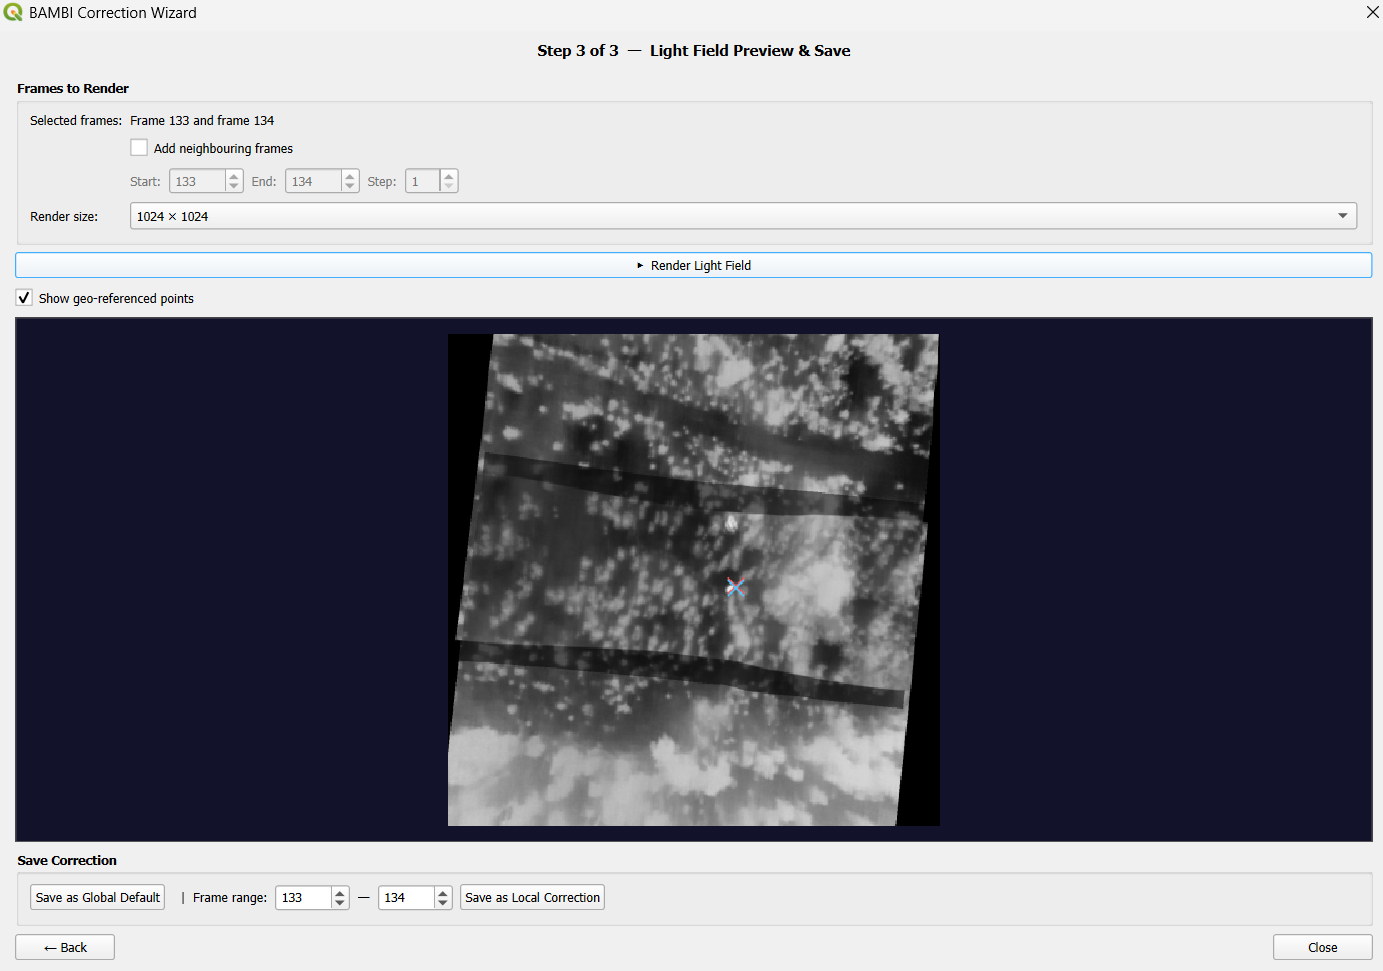
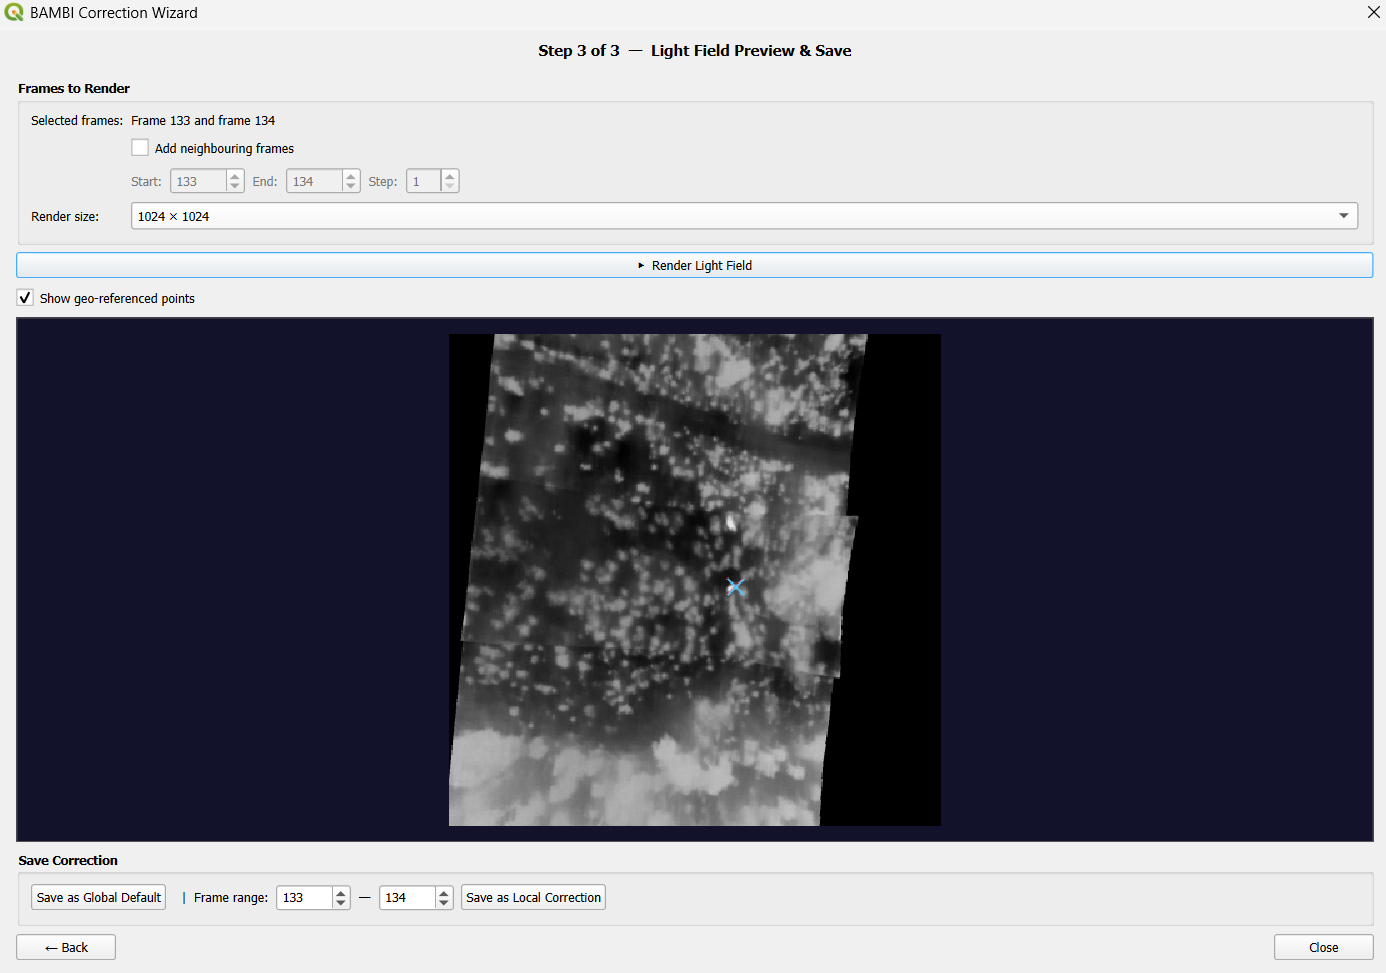
Adding mask to ALFS rendering in correction wizard

diff --git a/bambi_wildlife_detection/bambi_correction_wizard.py b/bambi_wildlife_detection/bambi_correction_wizard.py
@@ -569,7 +569,7 @@ class _LightFieldRenderWorker(QThread):
         )
         from alfspy.render.data import BaseSettings, CameraPositioningMode
         from alfspy.core.rendering.renderer import Renderer
-        from alfspy.core.rendering import CtxShot, Resolution
+        from alfspy.core.rendering import CtxShot, Resolution, TextureData
         from alfspy.core.geo.transform import Transform
         from alfspy.core.util.pyrrs import quaternion_from_eulers
         from alfspy.core.util.geo import get_aabb
@@ -598,6 +598,15 @@ class _LightFieldRenderWorker(QThread):
         self.progress.emit(25)
 
         ctx = make_mgl_context()
+
+        # Load undistortion mask if available
+        mask = None
+        mask_path = p.get('mask_path')
+        if mask_path and os.path.isfile(mask_path):
+            mask_img = cv2.imread(mask_path, cv2.IMREAD_UNCHANGED)
+            if mask_img is not None:
+                mask = TextureData(CtxShot._cvt_img(mask_img))
+
         shots = []
         default_fov = 50.0
 
@@ -659,6 +668,7 @@ class _LightFieldRenderWorker(QThread):
         shot_loader = make_shot_loader(shots)
         result = renderer.render_integral(
             shot_loader,
+            mask=mask,
             save=False,
             release_shots=False,
             auto_contrast=True,
@@ -1614,11 +1624,22 @@ class BambiCorrectionWizard(QDialog):
             return
 
         render_size = self._render_size_combo.currentData() or 1024
+
+        # Resolve mask: prefer thermal, fall back to RGB, then None
+        folder = self._config.get('target_folder', '')
+        mask_path = None
+        for candidate in ('mask_T.png', 'mask_W.png'):
+            p = os.path.join(folder, candidate)
+            if os.path.isfile(p):
+                mask_path = p
+                break
+
         params = {
             'dem_path': self._config['dem_path'],
             'frames': frames_info,
             'correction': self._correction,
             'render_size': render_size,
+            'mask_path': mask_path,
         }
 
         self._render_pbar.setVisible(True)
